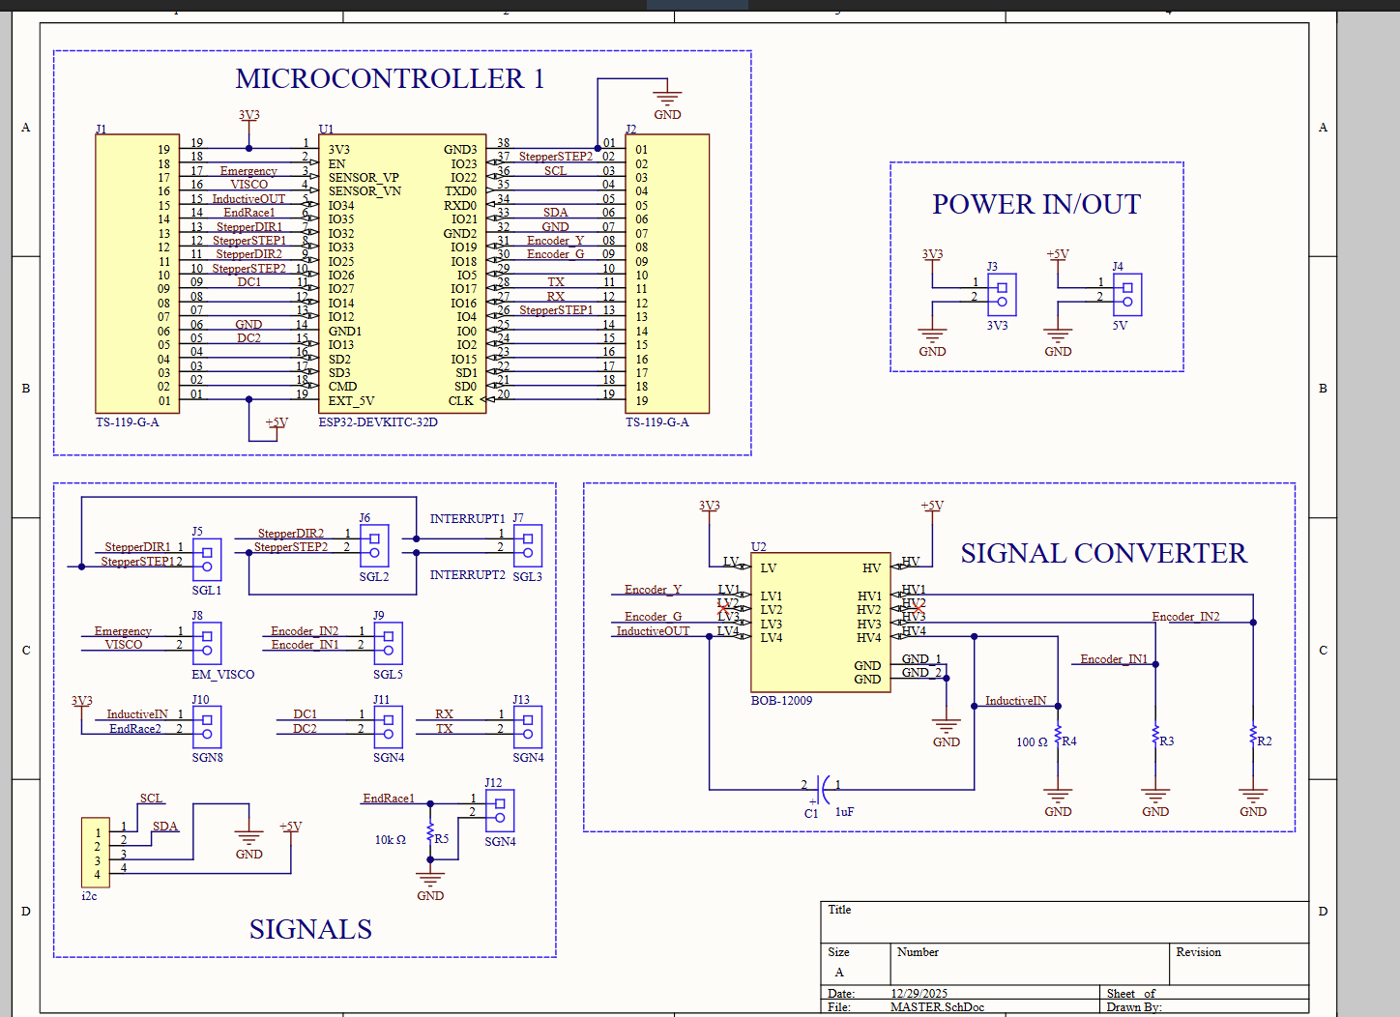
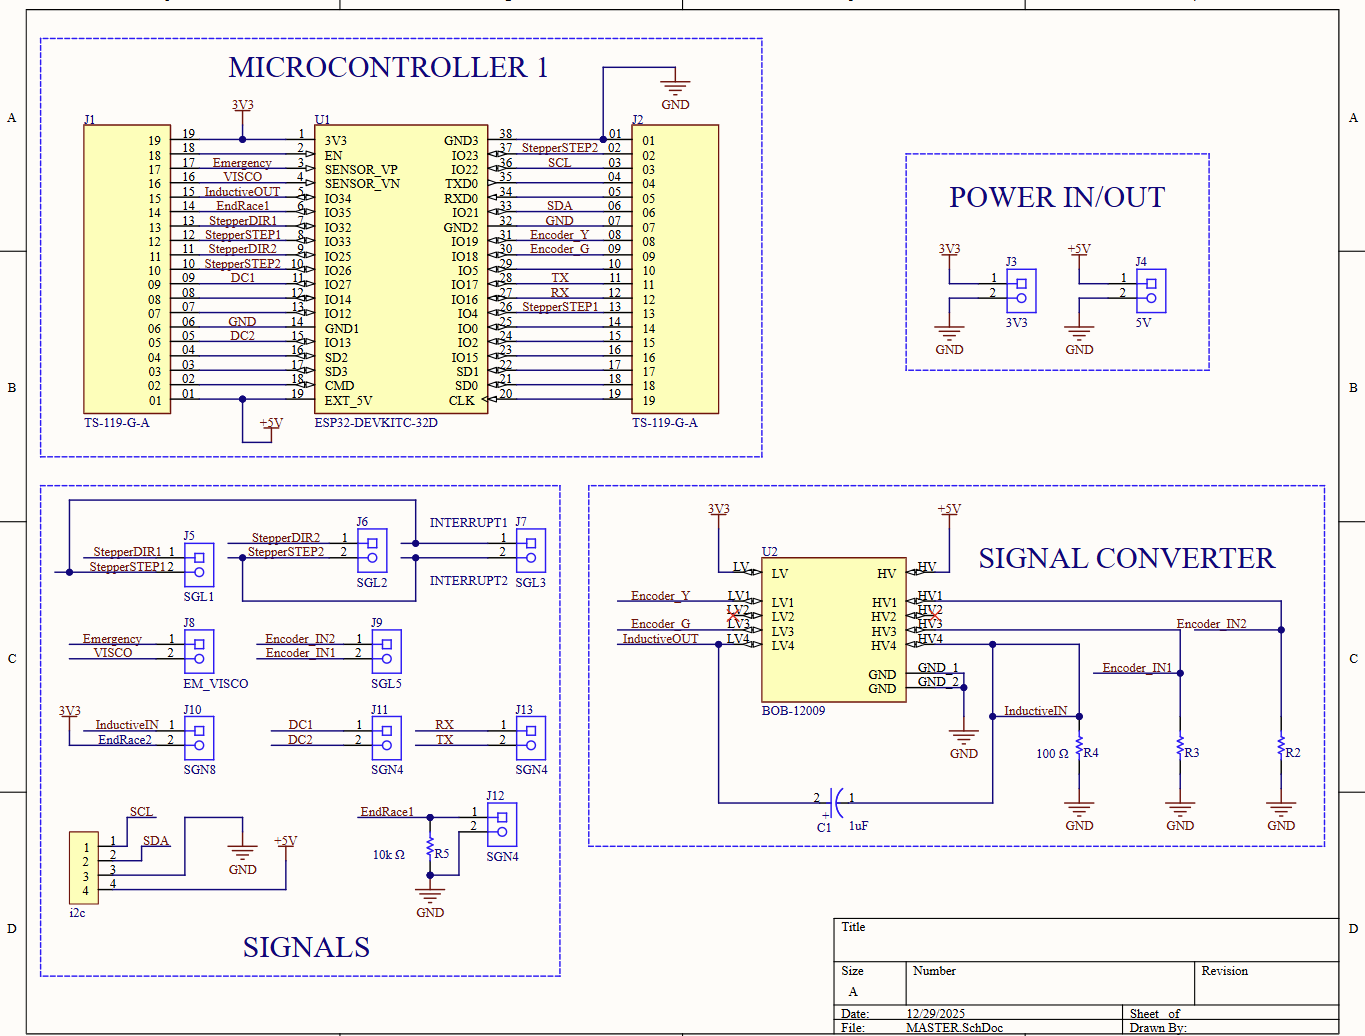
Viscosity page: uncropped PCB photos, trimmed schematics, Altium/copper-clad notes, conveyor rationale
Claude-Session: https://claude.ai/code/session_013PLVwAYXXSpaCBH4ev7ukr

diff --git a/_projects/endress-viscosity.md b/_projects/endress-viscosity.md
@@ -15,6 +15,7 @@ featured: true
   .vis-fig img { display: block; width: 100%; height: 340px; object-fit: contain; background: rgba(128, 128, 128, 0.06); }
   .vis-fig.photo img { object-fit: cover; }
   .vis-fig.auto img { height: auto; }
+  .vis-fig.full img { height: auto; max-height: 460px; }
   .vis-fig video { display: block; width: 100%; height: 340px; object-fit: contain; background: rgba(128, 128, 128, 0.06); }
   .vis-fig figcaption { padding: 0.6rem 0.9rem; font-size: 0.85rem; line-height: 1.4; opacity: 0.85; border-top: 1px solid rgba(128, 128, 128, 0.2); }
 </style>
@@ -27,10 +28,10 @@ Automate a full fluid-handling cycle: identify a sample by its color tag, measur
 
 **My contribution**
 
-- **PCB design:** designed all three boards of the measurement station — the ESP32 master and slave boards (two-layer, IPC-2221 trace sizing, manufactured by JLCPCB) and the op-amp board for viscosity measurement
+- **PCB design:** designed all three boards of the measurement station in Altium Designer — the ESP32 master and slave boards (two-layer, IPC-2221 trace sizing, manufactured by JLCPCB) and the op-amp board for viscosity measurement, which I built on copper-clad laminate so the circuit could be debugged and tuned
 - **Signal conditioning:** co-developed the current-sensing chain (1 Ω shunt, two-stage UA741 amplification, about 400× gain), simulated it at 61 mA and 67 mA, and verified it on our own PCB
 - **Embedded** (co-developed with a teammate): homing and measuring routines, moving-average filtering of the current signal, color-tag reading over I²C, Bluetooth link to the LabVIEW HMI, UART between the two ESP32s, and the song the slave board's buzzer plays while the motors move (it stops during the cup, color and viscosity checks)
-- **PLC & manufacturing:** built the conveyor belts, programmed the ladder logic for some of them, and placed and calibrated the FC-51 sensors
+- **PLC & manufacturing:** co-built the conveyor belts, co-programmed the ladder logic, and placed and calibrated the FC-51 sensors
 
 Teammates led the mechanical design of the stations, the PLC sequence design, and the LabVIEW HMI.
 
@@ -38,20 +39,22 @@ Teammates led the mechanical design of the stations, the PLC sequence design, an
 
 <div class="vis-grid">
   <figure class="vis-fig"><img src="{{ 'assets/img/viscosity.png' | relative_url }}" alt="SolidWorks render of the full system"><figcaption>Design: SolidWorks render of the carousel, measurement station and conveyors.</figcaption></figure>
-  <figure class="vis-fig photo"><img src="{{ 'assets/img/visc-system-test.jpg' | relative_url }}" alt="Integrated system during testing"><figcaption>Build: the integrated system during testing, with the control electronics laid out around it.</figcaption></figure>
+  <figure class="vis-fig full"><img src="{{ 'assets/img/visc-system-test.jpg' | relative_url }}" alt="Integrated system during testing"><figcaption>Build: the integrated system during testing, with the control electronics laid out around it.</figcaption></figure>
   <figure class="vis-fig clip"><video src="{{ 'assets/img/visc-revolver.mp4' | relative_url }}" autoplay loop muted playsinline controls></video><figcaption>The revolver (rotating cup holder) turning with the sample cups loaded.</figcaption></figure>
 </div>
 
 **PCB design**
 
+All boards were designed in Altium Designer. The two ESP32 boards were manufactured by JLCPCB. The op-amp board was instead built on copper-clad laminate: for practicality and debugging, this let us test the conditioning circuit and modify component values with experimental results, which a fabricated board would not have allowed as quickly.
+
 <div class="vis-grid">
-  <figure class="vis-fig photo"><img src="{{ 'assets/img/visc-esp32-board-a.jpg' | relative_url }}" alt="ESP32 master board"><figcaption>ESP32 master board: drives the main motors, including the stepper of the carousel (stepper and encoder terminals, I²C connector, level shifter).</figcaption></figure>
-  <figure class="vis-fig photo"><img src="{{ 'assets/img/visc-esp32-board-b.jpg' | relative_url }}" alt="ESP32 slave board"><figcaption>ESP32 slave board: sensors and peripherals (PLC signals, fan and water pump), plus the buzzer that plays the song while the mechanisms move.</figcaption></figure>
+  <figure class="vis-fig full"><img src="{{ 'assets/img/visc-esp32-board-a.jpg' | relative_url }}" alt="ESP32 master board"><figcaption>ESP32 master board: drives the main motors, including the stepper of the carousel (stepper and encoder terminals, I²C connector, level shifter).</figcaption></figure>
+  <figure class="vis-fig full"><img src="{{ 'assets/img/visc-esp32-board-b.jpg' | relative_url }}" alt="ESP32 slave board"><figcaption>ESP32 slave board: sensors and peripherals (PLC signals, fan and water pump), plus the buzzer that plays the song while the mechanisms move.</figcaption></figure>
 </div>
 
 <div class="vis-grid">
   <figure class="vis-fig"><img src="{{ 'assets/img/visc-opamp-layout.jpg' | relative_url }}" alt="Op-amp measurement board layout"><figcaption>Op-amp measurement board: PCB layout.</figcaption></figure>
-  <figure class="vis-fig photo"><img src="{{ 'assets/img/visc-opamp-board.jpg' | relative_url }}" alt="Fabricated and wired op-amp board"><figcaption>The same board, fabricated on copper-clad laminate and wired.</figcaption></figure>
+  <figure class="vis-fig full"><img src="{{ 'assets/img/visc-opamp-board.jpg' | relative_url }}" alt="Fabricated and wired op-amp board"><figcaption>The same board, built on copper-clad laminate so values could be changed while debugging.</figcaption></figure>
 </div>
 
 <div class="vis-grid">
@@ -70,8 +73,10 @@ Viscosity was inferred from the motor's supply current through a 1 Ω shunt: abo
 
 **Conveyors**
 
+The original sorting idea (a vending-machine-style stepper, screw and spring) was dropped because exactly spaced springs were not available and the ladder logic was complex. For practicality and material feasibility, the final integration uses small conveyor belts instead, driven by an Arduino Mega running OpenPLC.
+
 <div class="vis-grid single">
-  <figure class="vis-fig photo"><img src="{{ 'assets/img/visc-conveyors.jpg' | relative_url }}" alt="Conveyor belts with FC-51 sensors"><figcaption>The conveyor belts I built, with FC-51 sensors for cup detection.</figcaption></figure>
+  <figure class="vis-fig full"><img src="{{ 'assets/img/visc-conveyors.jpg' | relative_url }}" alt="Conveyor belts with FC-51 sensors"><figcaption>The conveyor belts I co-built, with FC-51 sensors for cup detection.</figcaption></figure>
 </div>
 
 **Tools & technologies**
